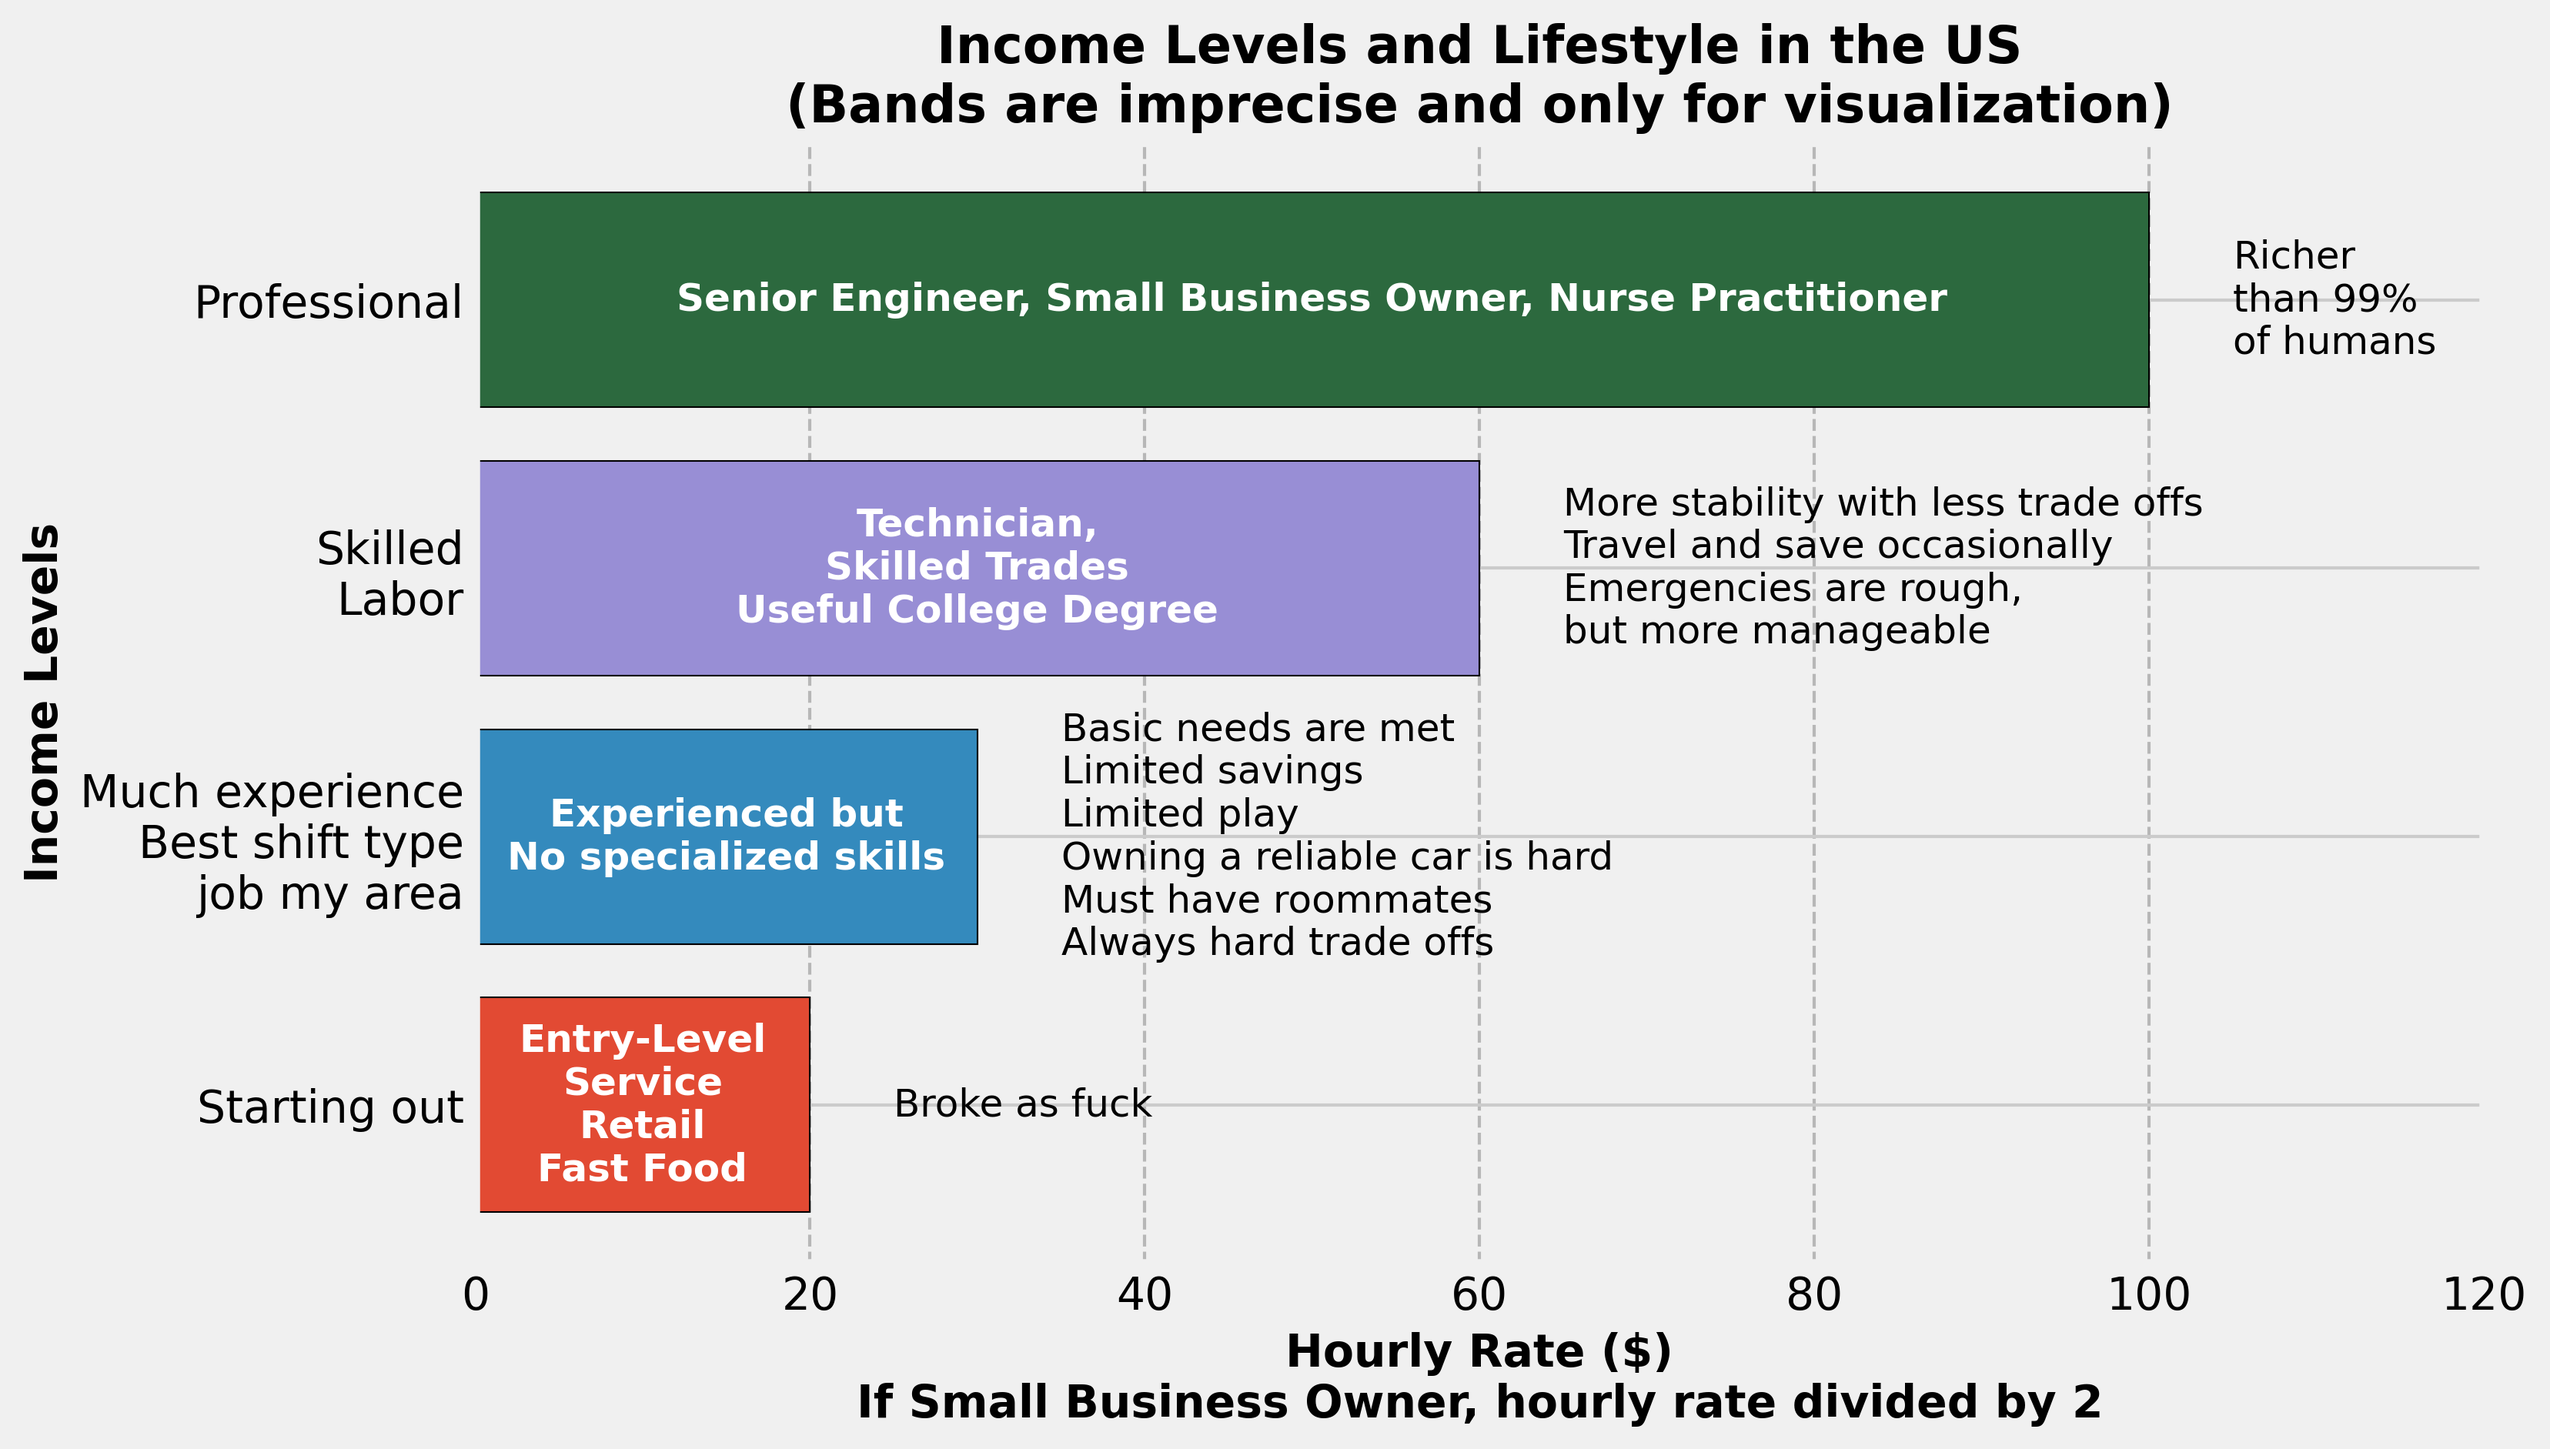
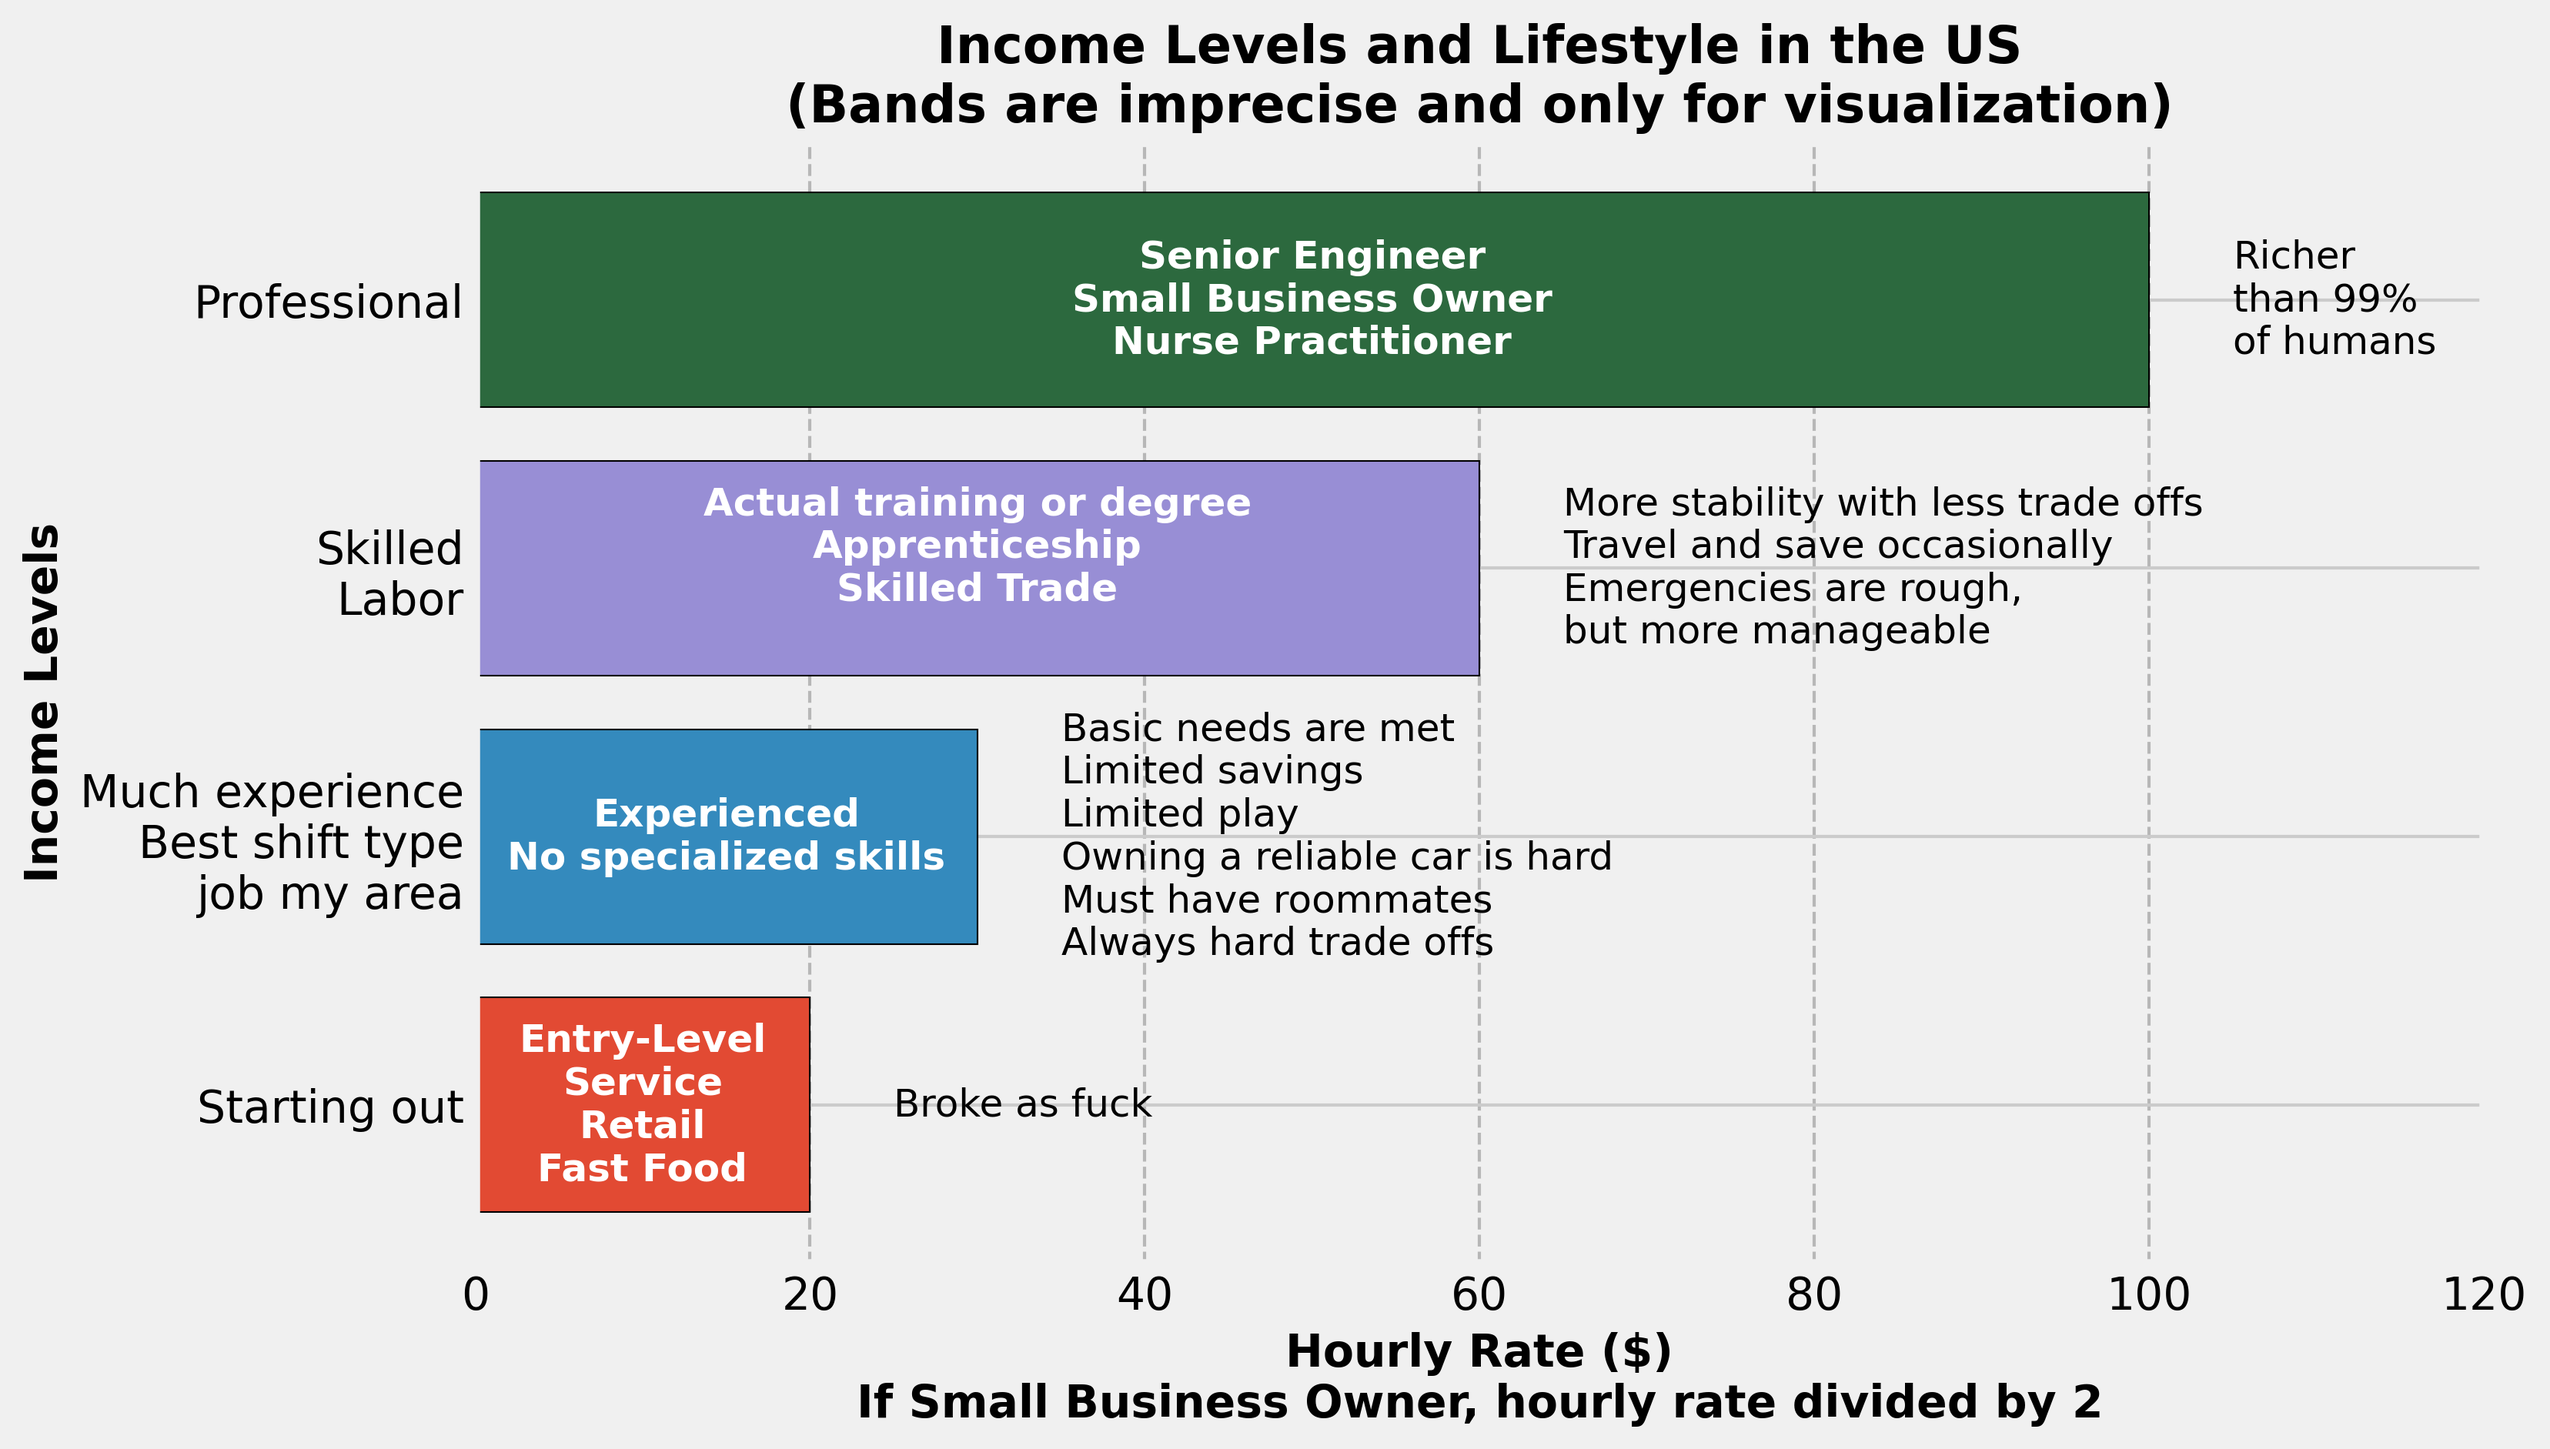
📊 Update 📈 2025-02-09 13:52:00 ✏

Changed region(s): [[0.2487, 0.154, 0.7772, 0.2464], [0.2798, 0.3388, 0.4974, 0.4312], [0.2176, 0.5544, 0.3731, 0.5852]]

diff --git a/zchart.py b/zchart.py
@@ -32,9 +32,9 @@ def gen_image():
 
     job_labels = [
         "Entry-Level\nService\nRetail\nFast Food",
-        "Experienced but\nNo specialized skills",
-        "Technician,\nSkilled Trades\nUseful College Degree",
-        "Senior Engineer, Small Business Owner, Nurse Practitioner",
+        "Experienced\nNo specialized skills",
+        "Actual training or degree\nApprenticeship\nSkilled Trade\n",
+        "Senior Engineer\nSmall Business Owner\nNurse Practitioner",
     ]
 
     lifestyle_labels = [
